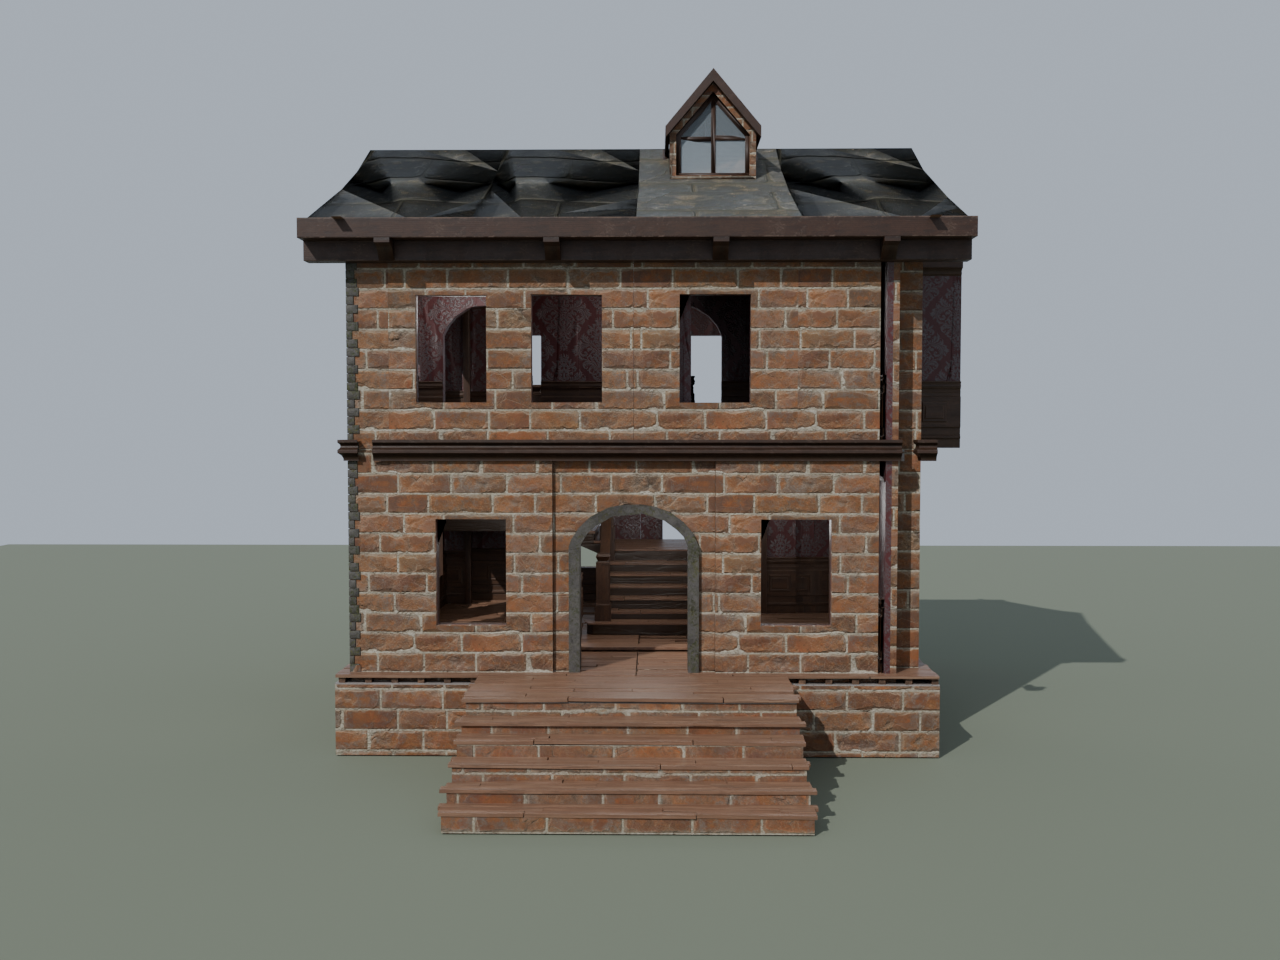
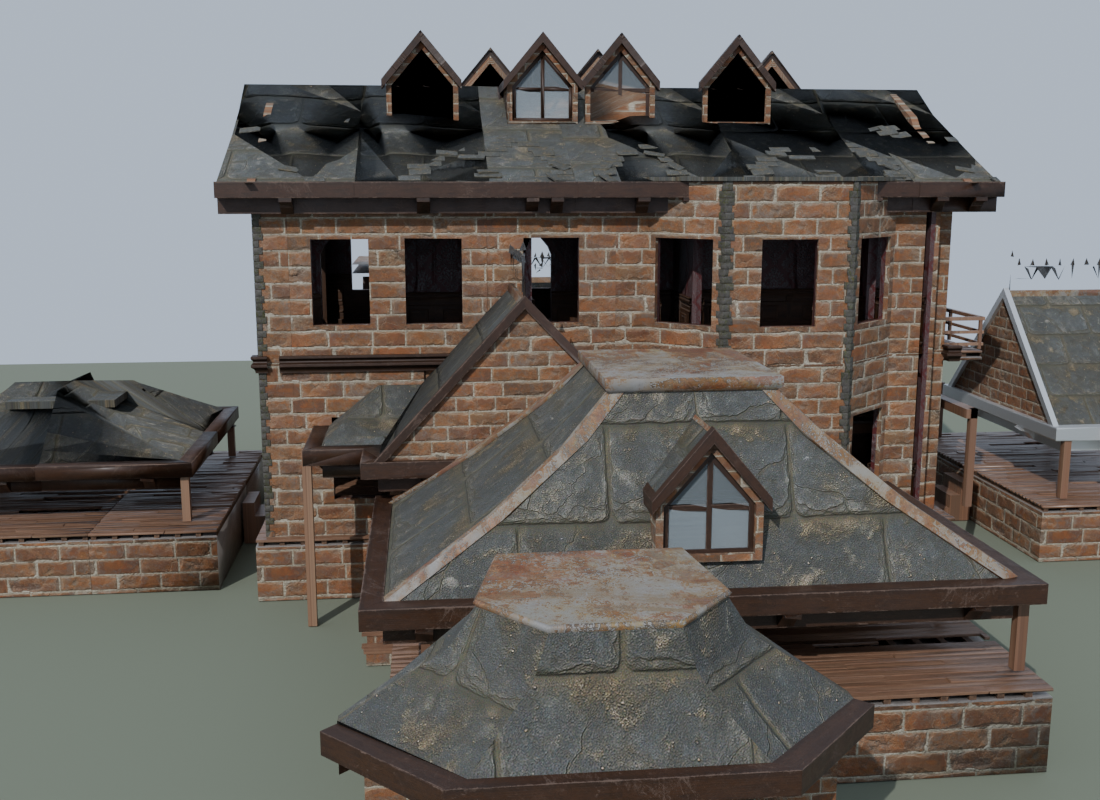
feat(blender): mansard conversion + site structures - use-every-piece stage 2
Main roof becomes a mansard: Roof08/09/10 bell-cast lower tier cut at the spring line into the Roof01 upper tier (ridge unchanged), gables re-profiled to the curve. Site structures from the remaining roof pieces: Roof05 pavilion + Roof06 canopy (south), Roof04 paired-half carport (north, heightmap-verified), Roof_corner01 kiosk (west), Roof07 entrance gate on UV-fixed brick piers, Roof_corner02 entry porch (end module gable-first, cut edge landed on a raised beam), Roof_corner03 east pavilion folly (gable bay + timber profile plate closing the cut end), Roof02 garden-door hood.

Census complete: 50 of 50 kit pieces placed, 180 imports, 256 objects. Doc gains the stage-2 section, the updated census, and the LOD warning (LOD1+ simplify away the corner modules' morphing sections - fit-checks must isolate LOD0). Proof renders refreshed (front, front-SE, back-NW) + two new (site structures, east pavilion). The .blend is regenerated by the tool and not committed, per the polish-pass precedent.

diff --git a/_blender/tools/build_two_story_house.py b/_blender/tools/build_two_story_house.py
@@ -516,7 +516,36 @@ for k in range(2):
     place(objs, 0, (-2.28, -3.45 + 0.244 * k, 2.04)); bake(objs)
 
 # ------------------------------------------------------------------ roof ----
-print("== roof")
+# Mansard conversion: the kit's mansard family (Roof08/09/10 sections) forms
+# a steep bell-cast LOWER tier on both slopes; the Roof01 modules keep the
+# shallow UPPER tier. Measured fit: with eaves at |y| 7.10 (z 13.0), the bell
+# curve reaches z 15.25 at |y| 2.2 — exactly the height of the Roof01 slope
+# plane there (15.26) — so the mansard sections are cut at |y| 2.15 and their
+# top edge embeds into the upper tier's slope with no step and no gap.
+print("== roof: mansard lower tier")
+def mansard_side(theta, spring_y):
+    cursor = -8.0
+    sample = []
+    for fbx in ("SM_Roof09.fbx", "SM_Roof08.fbx", "SM_Roof10.fbx",
+                "SM_Roof08.fbx", "SM_Roof09.fbx"):
+        objs = import_piece(fbx)
+        mn, mx = place(objs, theta, (cursor, 0.0, 12.06))
+        dy = (-7.10 - mn.y) if theta == 0 else (7.10 - mx.y)
+        if abs(dy) > 1e-4:
+            mn, mx = place(objs, 0, (mn.x, mn.y + dy, mn.z))
+        bake(objs)
+        bisect_cut(objs, (0, spring_y, 0), (0, 1 if theta == 0 else -1, 0))
+        bisect_cut(objs, (16.0, 0, 0), (1, 0, 0))
+        if not sample:
+            sample = objs
+        print(f"  mansard {'S' if theta == 0 else 'N'} {fbx} at x {cursor:.2f}")
+        cursor = mx.x
+    return sample
+
+mansard_plain = mansard_side(0, -2.15)
+mansard_side(180, 2.15)
+
+print("== roof: upper tier (Roof01 modules, as before)")
 roof_south = []
 roof_plain = []
 for k, fbx in enumerate(["SM_Roof01.fbx", "SM_Roof01.fbx", "SM_Roof03.fbx",
@@ -541,18 +570,21 @@ for k in range(6):
 # ------------------------------------------------------------- gable ends ----
 print("== gables")
 prof = {}
-for o in roof_plain:
+for o in roof_plain + mansard_plain:
     for p in o.data.polygons:
         if p.material_index < len(o.data.materials) and o.data.materials[p.material_index] \
-                and o.data.materials[p.material_index].name.split('.')[0] == "MI_Roof":
+                and o.data.materials[p.material_index].name.split('.')[0] in ("MI_Roof", "MI_RoofPieces", "MI_Wood_TrimSheet"):
             for vi in p.vertices:
                 w = o.data.vertices[vi].co
                 b = round(w.y * 4) / 4
                 if w.y <= 0.05:
                     prof[b] = max(prof.get(b, -99), w.z)
 pts = sorted((y, z) for y, z in prof.items() if z > 0)
-print("  profile pts:", [(round(y, 2), round(z, 2)) for y, z in pts])
 ridge_z = pts[-1][1] if pts else 16.9
+# keep the dense mansard samples up to the spring line, then close along the
+# upper tier's measured plane (its own samples are too sparse to chord well)
+pts = [(y, z) for y, z in pts if y <= -2.3] + [(-2.2, 15.26), (0.0, ridge_z)]
+print("  profile pts:", [(round(y, 2), round(z, 2)) for y, z in pts])
 poly = [(-7.35, 12.97)] + [(y, z - 0.05) for y, z in pts if y > -7.3] + \
        [(-y, z - 0.05) for y, z in reversed(pts) if y < -0.01] + [(7.35, 12.97)]
 brick = None
@@ -706,6 +738,213 @@ for ux in (12.45, 13.5, 14.5):
 prism("MezzRailTop", [(12.3, -4.25), (14.65, -4.25), (14.65, -4.13), (12.3, -4.13)], 6.08, 6.20, wood_mat)
 prism("MezzRailMid", [(12.3, -4.23), (14.65, -4.23), (14.65, -4.15), (12.3, -4.15)], 5.60, 5.70, wood_mat)
 print("  mezzanine deck + guard built")
+
+# ------------------------------------------------------- site structures ----
+# The rest of the mansard family works as designed on garden structures:
+# Roof05 (complete mansard) roofs a pavilion south of the house; two Roof04
+# half sections pair into a carport roof on the north; four Roof_corner01
+# hips form a kiosk pyramid in the west garden; Roof07 (complete hip cap)
+# roofs the entrance gate; corner02 (mansard end module) roofs the entry
+# porch gable-first and corner03 (its morphing twin) an east garden folly; Roof06's upper slope band is a canopy off the
+# pavilion's north eave; Roof02's sloped band hoods the east garden door.
+print("== site structures")
+
+def place_vertex(objs, theta_deg, vx, vy, tz):
+    """Place so the piece's local AABB-min corner lands exactly at (vx, vy)."""
+    mn, mx = combined_bbox(objs)
+    R = Matrix.Rotation(math.radians(theta_deg), 4, 'Z')
+    corners = [Vector((x, y, z)) for x in (mn.x, mx.x) for y in (mn.y, mx.y) for z in (mn.z, mx.z)]
+    rot = [R @ (c - mn) for c in corners]
+    rmin = Vector((min(c[i] for c in rot) for i in range(3)))
+    return place(objs, theta_deg, (vx + rmin.x, vy + rmin.y, tz + rmin.z))
+
+def base_slab(cx, cy, w, d):
+    """Plinth of SM_Wood_External_Floor03 pieces tiled and cut to w x d."""
+    all_objs = []
+    x = cx - w / 2
+    while x < cx + w / 2 - 0.01:
+        y = cy - d / 2
+        while y < cy + d / 2 - 0.01:
+            objs = import_piece("SM_Wood_External_Floor03.fbx")
+            place(objs, 0, (x, y, 0.0))
+            bake(objs)
+            all_objs += objs
+            y += 6.41
+        x += 7.41
+    for co, no in [((cx + w / 2, 0, 0), (1, 0, 0)), ((cx - w / 2, 0, 0), (-1, 0, 0)),
+                   ((0, cy + d / 2, 0), (0, 1, 0)), ((0, cy - d / 2, 0), (0, -1, 0))]:
+        bisect_cut(all_objs, co, no)
+    return all_objs
+
+def post(name, cx, cy, z0, z1, half=0.13):
+    prism(name, [(cx - half, cy - half), (cx + half, cy - half),
+                 (cx + half, cy + half), (cx - half, cy + half)], z0, z1, wood_mat)
+
+def steps(name, ex, ey, dx, dy):
+    """Three deck steps at a plinth edge (ex, ey), descending along (dx, dy)."""
+    for i in range(3):
+        off = 0.28 + 0.42 * i
+        cx, cy = ex + dx * off, ey + dy * off
+        x0, x1 = (cx - 0.8, cx + 0.8) if dx == 0 else (cx - 0.21, cx + 0.21)
+        y0, y1 = (cy - 0.8, cy + 0.8) if dy == 0 else (cy - 0.21, cy + 0.21)
+        prism(name, [(x0, y0), (x1, y0), (x1, y1), (x0, y1)], 0.0, 1.53 - 0.51 * i, wood_mat)
+
+# pavilion (south garden)
+base_slab(4.35, -14.5, 14.6, 9.6)
+objs = import_piece("SM_Roof05.fbx")
+place(objs, 0, (-3.595, -19.08, 3.35)); bake(objs)
+for px in (-2.1, 11.3):
+    for py in (-18.3, -14.5, -10.7):
+        post("PavPost", px, py, 2.04, 4.05)
+prism("PavBeam", [(-2.35, -18.55), (11.55, -18.55), (11.55, -18.3), (-2.35, -18.3)], 3.95, 4.15, wood_mat)
+prism("PavBeam", [(-2.35, -10.95), (11.55, -10.95), (11.55, -10.7), (-2.35, -10.7)], 3.95, 4.15, wood_mat)
+steps("PavSteps", 4.35, -9.7, 0, 1)
+print("  pavilion built (Roof05)")
+
+# Roof06 canopy off the pavilion's north eave (upper slope band only)
+objs = import_piece("SM_Roof06.fbx")
+place(objs, 270, (0.3, -9.85, -0.55)); bake(objs)
+for co, no in [((7.7, 0, 0), (1, 0, 0)), ((0.3, 0, 0), (-1, 0, 0)),
+               ((0, -7.8, 0), (0, 1, 0)), ((0, -9.95, 0), (0, -1, 0)),
+               ((0, 0, 4.35), (0, 0, 1))]:
+    bisect_cut(objs, co, no)
+post("CanPost", 0.6, -7.95, 0.0, 2.55)
+post("CanPost", 7.4, -7.95, 0.0, 2.55)
+print("  pavilion canopy built (Roof06 band)")
+
+# carport (north garden): Roof04 is a mansard HALF section (one slope + flat
+# deck + one brick gable end + ridge cresting); two halves back-to-back form
+# the complete roof, gable ends landing at opposite ends
+base_slab(4.0, 12.6, 19.0, 7.6)
+objs = import_piece("SM_Roof04.fbx")
+place(objs, 90, (-5.14, 9.12, 2.76)); bake(objs)
+objs = import_piece("SM_Roof04.fbx")
+place(objs, 270, (-5.14, 9.12, 2.76)); bake(objs)
+for px in (-4.0, 4.0, 12.0):
+    for py in (9.55, 15.65):
+        post("CarPost", px, py, 2.04, 3.55)
+prism("CarBeam", [(-5.0, 9.2), (13.0, 9.2), (13.0, 9.45), (-5.0, 9.45)], 3.48, 3.70, wood_mat)
+prism("CarBeam", [(-5.0, 15.75), (13.0, 15.75), (13.0, 16.0), (-5.0, 16.0)], 3.48, 3.70, wood_mat)
+steps("CarSteps", 4.0, 8.8, 0, -1)
+print("  carport built (Roof04 pair)")
+
+# kiosk (west garden): four hip corners + cap
+base_slab(-14.5, 0.5, 11.4, 11.4)
+KC = (-14.5, 0.5)
+for th, (vx, vy), cuts in [
+        (0,   (-19.5, -4.5), [((-14.5, 0, 0), (1, 0, 0)), ((0, 0.5, 0), (0, 1, 0))]),
+        (90,  (-9.5, -4.5),  [((-14.5, 0, 0), (-1, 0, 0)), ((0, 0.5, 0), (0, 1, 0))]),
+        (180, (-9.5, 5.5),   [((-14.5, 0, 0), (-1, 0, 0)), ((0, 0.5, 0), (0, -1, 0))]),
+        (270, (-19.5, 5.5),  [((-14.5, 0, 0), (1, 0, 0)), ((0, 0.5, 0), (0, -1, 0))])]:
+    objs = import_piece("SM_Roof_corner01.fbx")
+    place_vertex(objs, th, vx, vy, 3.1)
+    bake(objs)
+    for co, no in cuts:
+        bisect_cut(objs, co, no)
+for dx in (-4.6, 4.6):
+    for dy in (-4.6, 4.6):
+        post("KioPost", KC[0] + dx, KC[1] + dy, 2.04, 3.9)
+prism("KioCap", [(KC[0] - 1.8, KC[1] - 1.8), (KC[0] + 1.8, KC[1] - 1.8),
+                 (KC[0] + 1.8, KC[1] + 1.8), (KC[0] - 1.8, KC[1] + 1.8)], 5.35, 5.60, roof_mat)
+steps("KioSteps", -8.8, 0.5, 1, 0)
+print("  kiosk built (corner01 x4)")
+
+# entrance gate (south garden): Roof07 is a complete small hip cap (bell
+# slopes + flat rusty deck + eave beam) - it roofs the gate whole, on piers
+objs = import_piece("SM_Roof07.fbx")
+place(objs, 0, (-3.87, -25.91, 3.1)); bake(objs)
+def pier(name, cx, cy):
+    ob = prism(name, [(cx - 0.55, cy - 0.55), (cx + 0.55, cy - 0.55),
+                      (cx + 0.55, cy + 0.55), (cx - 0.55, cy + 0.55)], 0.0, 3.3, brick)
+    # prism() maps UVs from (x, y) - right for caps, smeared on tall Y faces;
+    # remap this pier's sides from (horizontal, z) so the brick courses read
+    me = ob.data
+    uv = me.uv_layers.active
+    for poly in me.polygons:
+        n = poly.normal
+        if abs(n.y) <= 0.5 and abs(n.x) <= 0.5:
+            continue
+        for k, vi in enumerate(poly.vertices):
+            v = me.vertices[vi]
+            if abs(n.y) > 0.5:
+                uv.data[poly.loop_start + k].uv = (v.co.x * 0.22, v.co.z * 0.22)
+            else:
+                uv.data[poly.loop_start + k].uv = (v.co.y * 0.22, v.co.z * 0.22)
+    return ob
+def profile_plate(name, x0, x1, outline_yz, mat):
+    """Thin plate closing a roof cut end: outline_yz = [(y, z), ...] simple
+    polygon tracing the roof's outer profile at the cut, extruded x0..x1.
+    Outline ordered CCW in the (y, z) plot."""
+    n = len(outline_yz)
+    verts = [(x0, y, z) for y, z in outline_yz] + [(x1, y, z) for y, z in outline_yz]
+    faces = [tuple(range(n)), tuple(reversed(range(n, 2 * n)))]
+    for i in range(n):
+        j = (i + 1) % n
+        faces.append((i, j, n + j, n + i))
+    me = bpy.data.meshes.new(name)
+    me.from_pydata(verts, [], faces)
+    me.materials.append(mat)
+    uv = me.uv_layers.new(name="UVMap")
+    for poly in me.polygons:
+        for li in range(poly.loop_start, poly.loop_start + poly.loop_total):
+            v = me.vertices[me.loops[li].vertex_index]
+            uv.data[li].uv = (v.co.y * 0.22, v.co.z * 0.22)
+    ob = bpy.data.objects.new(name, me)
+    bpy.context.collection.objects.link(ob)
+    return ob
+
+pier("GatePier", -2.6, -23.5)
+pier("GatePier", 4.4, -23.5)
+print("  entrance gate built (Roof07)")
+
+# entry porch: corner02 is a mansard roof END module (brick gable + both
+# slopes + crested deck, ridge along its length) - one module roofs the
+# porch, gable to the street, open end cut into the facade, east slope cut
+# clear of the bay
+objs = import_piece("SM_Roof_corner02.fbx")
+place(objs, 0, (-5.63, -11.3, 4.61)); bake(objs)
+bisect_cut(objs, (0, -5.9, 0), (0, 1, 0))
+bisect_cut(objs, (3.8, 0, 0), (1, 0, 0))
+prism("PorchBeam", [(3.68, -11.2), (3.8, -11.2), (3.8, -6.0), (3.68, -6.0)], 6.55, 6.85, wood_mat)
+post("PorchPost", -5.5, -8.6, 0.0, 5.4)
+post("PorchPost", 3.65, -8.6, 0.0, 6.55)
+print("  entry porch built (corner02)")
+
+# east pavilion: corner03 is a morphing end module (pitched cross-gable at
+# its brick-gable end, bell half-section at the far end) - the folly keeps
+# the gable bay only, its cut end closed by a timber profile plate on posts
+base_slab(22.85, 0.5, 7.6, 11.8)
+objs = import_piece("SM_Roof_corner03.fbx")
+mn, mx = place(objs, 270, (0.0, 0.0, 3.66))
+dy = 0.5 - (mn.y + mx.y) / 2
+dx = 19.6 - mn.x
+if abs(dx) > 1e-4 or abs(dy) > 1e-4:
+    mn, mx = place(objs, 0, (mn.x + dx, mn.y + dy, mn.z))
+bake(objs)
+bisect_cut(objs, (26.1, 0, 0), (1, 0, 0))
+bb = combined_bbox(objs)
+print(f"  east pavilion roof: x {bb[0].x:.2f}..{bb[1].x:.2f} y {bb[0].y:.2f}..{bb[1].y:.2f} z {bb[0].z:.2f}..{bb[1].z:.2f}")
+profile_plate("EastPavGable", 25.94, 26.10,
+              [(6.06, 4.50), (5.45, 5.00), (4.45, 5.80), (3.45, 6.70),
+               (2.45, 6.90), (1.45, 7.60), (0.45, 8.15), (-0.55, 8.75),
+               (-1.55, 8.54), (-2.55, 7.50), (-3.55, 6.95), (-4.55, 6.88),
+               (-5.07, 6.88), (-5.07, 4.50)], wood_mat)
+for px in (20.2, 25.5):
+    for py in (-4.55, 5.55):
+        post("EastPavPost", px, py, 2.04, 4.45)
+steps("EastPavSteps", 19.05, 0.5, -1, 0)
+print("  east pavilion built (corner03)")
+
+# Roof02 hood over the east garden door (door centre y 0.90): the fragment's
+# sloped band (local y 6.2..9.2, z 2.9..5.7) sliced to a 1.6-deep hood, its
+# top edge against the facade at z 6.6, drip edge at x 16.65, z ~5.1
+objs = import_piece("SM_Roof02.fbx")
+place(objs, 90, (9.25, -0.85, 3.77)); bake(objs)
+bisect_cut(objs, (16.65, 0, 0), (1, 0, 0))
+bisect_cut(objs, (15.0, 0, 0), (-1, 0, 0))
+for py in (-0.6, 2.4):
+    prism("HoodCorbel", [(14.83, py - 0.12), (15.11, py - 0.12), (15.11, py + 0.12), (14.83, py + 0.12)], 5.35, 6.15, wood_mat)
+print("  garden-door hood built (Roof02 band)")
 
 # ---------------------------------------------------------------- ground ----
 bpy.ops.mesh.primitive_plane_add(size=90, location=(0, 0, -0.03))

diff --git a/docs/two-story-house-2026-10-02.md b/docs/two-story-house-2026-10-02.md
@@ -39,33 +39,27 @@ node recipe (same approach as the indoor room and Roof01).
   follow the measured roof profile (sampled from a plain Roof01 only — the
   dormer module's cap tiles corrupt the profile bins).
 
-## Pieces: 30 of 50 used (85 placements)
+## Pieces: 50 of 50 used (180 placements)
 
-Used: Roof01 ×7, Trim01 ×8, internal wall03 ×8, wall02 ×6, Baseflor
-WindowFrame01 ×5, SecondFloor WindowFrame01/02 ×4 each, internal
-DoorFrame01 ×4, Trim01_Corner ×4, FloorPlank01 ×3, every exterior corner ×2
-per floor, Baseflor DoorFrame01 ×2 (front + garden doors), Baseflor wall01 /
-WindowFrame02 ×2, SecondFloor wall01 ×2, FloorPlank02 ×2, internal
-corner01 ×2, Wood_External_Floor01/03 ×2 each (platform), Internal_Stairs01,
+Every FBX in the building kit is placed at least once. The original
+build used 30 pieces (85 placements): Roof01 ×7, Trim01 ×8, internal
+wall03 ×8, wall02 ×6, Baseflor WindowFrame01 ×5, SecondFloor
+WindowFrame01/02 ×4 each, internal DoorFrame01 ×4, Trim01_Corner ×4,
+FloorPlank01 ×3, every exterior corner ×2 per floor, Baseflor
+DoorFrame01 ×2 (front + garden doors), Baseflor wall01 / WindowFrame02
+×2, SecondFloor wall01 ×2, FloorPlank02 ×2, internal corner01 ×2,
+Wood_External_Floor01/03 ×2 each (platform), Internal_Stairs01,
 External_Stairs01, Roof03 dormer, and all five internal floor slabs
 (Wood01/02/03, Ceramic01/02).
 
-Not used, with reasons:
-
-- **Damage variants** — wall01_torn, wall01_torn02, Wood_Internal_Floor04,
-  and Internal_Stair02 (also a 16.4 m mansion-hall piece; torn carpet).
-- **WindowFrame03 (both floors)** — curved turret/bay sections; they cannot
-  join the rectangular wall grid.
-- **SecondFloor DoorFrame01** — an upper door needs a balcony/terrace to
-  serve; the kit has no balcony piece.
-- **Internal wall01** — its 6.0 m length fit no partition run without
-  blocking a needed arch opening; wall02/wall03/DoorFrame01 cover every run.
-- **Wood_External_Floor02** — ~11% of faces carry the unassigned
-  "Fbx Default Material"; Floor01/03 cover the platform.
-- **Roof02/04/05** — complete pre-built roofs for a different 14 × 8
-  footprint; **Roof06/07** are fragments in source-mansion coordinates;
-  **Roof08/09/10 + Roof_corner01/02/03** are an alternative roof family the
-  Roof01/03 module system already closes.
+The "use every kit piece" pass (stages 1–3 + the mansard/site stage,
+below) added the remaining 20: WindowFrame03 ×2 (the bay, both floors),
+SecondFloor DoorFrame01 (balcony), Internal_Stair02 (mezzanine flight),
+internal wall01 ×2 + wall01_torn ×3 + wall01_torn02 (spines + decay
+room), Wood_Internal_Floor04 (decay-room ceiling), Wood_External_Floor02
+×2 (bay floors), and the whole mansard family — Roof08 ×4, Roof09 ×4,
+Roof10 ×2, Roof_corner01 ×4, Roof02/05/06/07 + Roof_corner02/03 ×1 each,
+Roof04 ×2 — while Roof01 rose to ×11 as the mansard's upper tier.
 
 ## Kit defect found: Corner02 vertex detection
 
@@ -263,3 +257,65 @@ A full audit of the merged build (169 objects), with one real defect found and f
   closet arch, the balcony door) regenerated; new
   `two_story_house_int_decay_ceiling.png` shows the Floor04 ceiling from the decay
   room — cracked plaster, cornice, and the torn walls' peeled tops.
+
+## Mansard conversion + site structures (2026-10-03)
+
+Stage 2 of the "use every kit piece" pass — the mansard family and the
+remaining roof pieces, all placed from LOD0 geometry measured in
+Blender (see the LOD warning at the end):
+
+- **Main roof → mansard.** The kit's mansard sections (Roof09 eave,
+  Roof08 dormer, Roof10 dormer, Roof08, Roof09 per side) form a steep
+  bell-cast lower tier on both slopes, eaves at the wall line, cut at
+  the spring line (|y| 2.15) where the bell curve meets the existing
+  Roof01 slope plane — the Roof01 modules (×11, incl. the Roof03 dormer
+  module) continue as the shallow upper tier to the unchanged ridge
+  (16.28). The gable ends are re-profiled to the same curve (sampled
+  from the pieces, dense to the spring line, analytic above it).
+- **Pavilion (south garden).** Roof05 is a complete mansard roof for a
+  ~14 × 8 building: set on six posts over a Floor03 plinth, glazed
+  dormer to the garden. A Roof06 slope band, sliced from the fragment,
+  cantilevers a canopy off its north eave on two posts.
+- **Carport (north garden).** Roof04 is a mansard *half*-section (one
+  slope + flat deck + one brick gable end + cresting); two halves
+  back-to-back on six posts + twin beams form the complete roof —
+  verified by a raycast heightmap of the finished footprint (paired
+  slopes, central deck, eaves both sides).
+- **Kiosk (west garden).** Four Roof_corner01 hip corners quartered to
+  a centre point make a slate pyramid roof on posts, closed by a cap
+  prism.
+- **Entrance gate (south).** Roof07 is a complete small hip cap (bell
+  slopes, rusty deck, timber eave beam) — set whole over two brick
+  piers. The piers are built by a dedicated helper that remaps the
+  brick UVs per face; the generic prism UVs (from plan x/y) smear on
+  tall faces.
+- **Entry porch.** Roof_corner02 is a mansard *end module*: brick
+  gable + pitched cross-gable bay that morphs into a half-section
+  along its length (its LOD0 sections were measured station by
+  station). One module roofs the porch — gable to the street, open end
+  embedded in the facade, east slope sliced clear of the bay with the
+  cut edge landed on a raised beam + post (raycast-verified closure).
+- **East pavilion.** Roof_corner03 (the morphing twin) as an open
+  garden folly: only the gable bay is kept, the cut end closed by a
+  timber profile plate (`profile_plate`, outline traced from the
+  measured section) carried on posts — a raw bisect end on these
+  shell pieces leaves the roof cavity open, as the first attempt
+  showed.
+- **Garden-door hood.** Roof02 is mostly void in source coordinates;
+  its one solid sloped band is sliced into a hood over the east garden
+  door on two wood corbels.
+
+Final build: 256 objects, 180 imports — 50 of 50 pieces placed.
+
+**LOD warning (cost a day):** the kit's LOD1+ meshes *simplify away
+the corner modules' morphing sections* — LOD1 of Roof_corner03 is a
+uniform half-section its whole length, while LOD0 transitions from a
+pitched cross-gable to the bell section. Any probe that imports an
+FBX and raycasts the whole stack measures the simplified LODs, not
+the geometry the build actually places (LOD0). All fit-checks for
+build geometry must isolate LOD0.
+
+Proof renders: refreshed `two_story_house_ext_front_se.png`,
+`two_story_house_ext_front.png`, `two_story_house_ext_back_nw.png`,
+plus new `two_story_house_site_structures.png` and
+`two_story_house_east_pavilion.png`.
